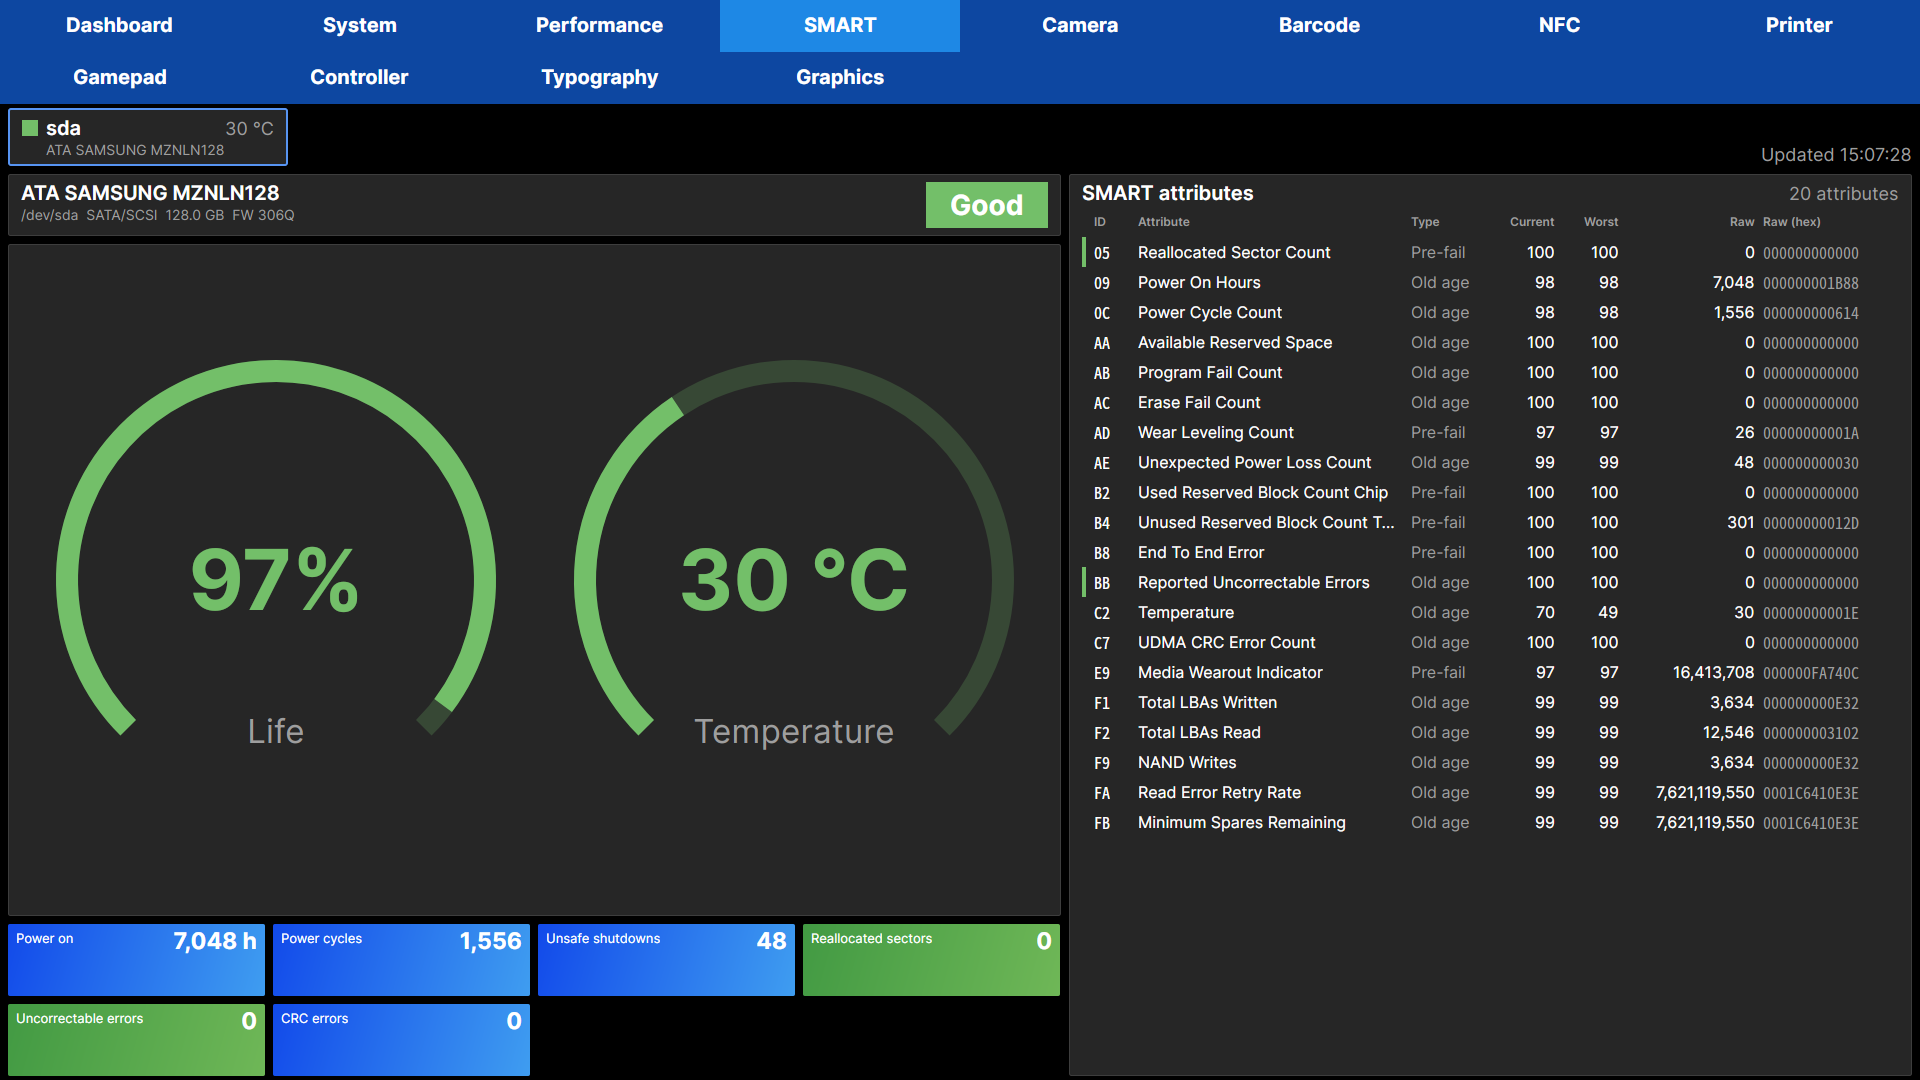
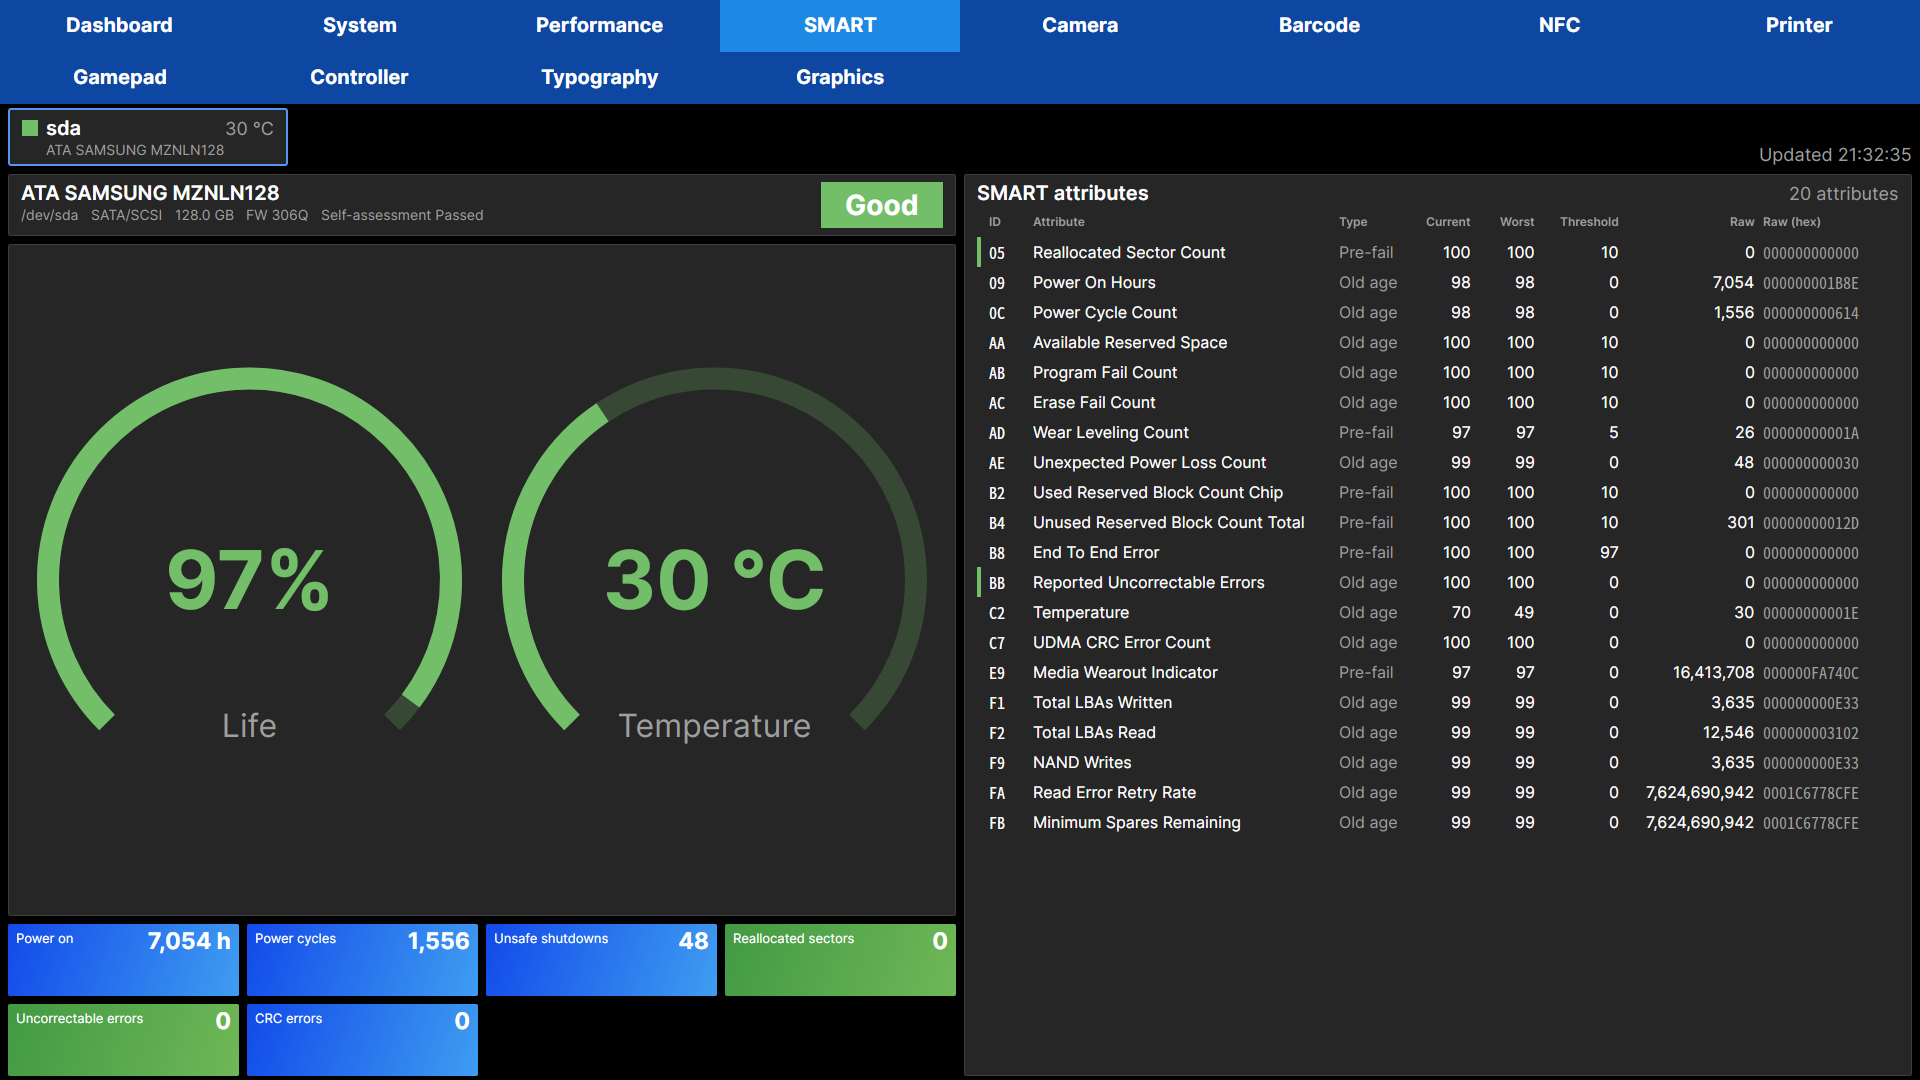
Update

diff --git a/src/Template.LinuxApp/Domain/Logic/SmartLogic.cs b/src/Template.LinuxApp/Domain/Logic/SmartLogic.cs
@@ -27,6 +27,8 @@ public enum SmartValueUnit
 
 public enum SmartIssueType
 {
+    AssessmentFailed,
+    AttributeFailing,
     CriticalWarning,
     SpareBelowThreshold,
     MediaErrors,
@@ -39,7 +41,7 @@ public enum SmartIssueType
     ReallocationEvents
 }
 
-public sealed record SmartIssue(SmartHealth Health, SmartIssueType Type, ulong Value, ulong Limit);
+public sealed record SmartIssue(SmartHealth Health, SmartIssueType Type, ulong Value, ulong Limit, byte Id = 0);
 
 public static class SmartLogic
 {
@@ -182,6 +184,9 @@ public static class SmartLogic
     public static bool IsPreFailure(SmartAttribute attribute) =>
         (attribute.Flags & PreFailureFlag) != 0;
 
+    public static bool IsFailing(SmartAttribute attribute) =>
+        (attribute.Threshold > 0) && (attribute.CurrentValue <= attribute.Threshold);
+
     public static bool IsTemperature(byte id) =>
         id is (byte)SmartId.Temperature or AirflowTemperature;
 
@@ -231,9 +236,19 @@ public static class SmartLogic
             ? attribute.RawValue
             : Double.NaN;
 
-    public static IReadOnlyList<SmartIssue> EvaluateAta(IReadOnlyList<SmartAttribute> attributes)
+    public static IReadOnlyList<SmartIssue> EvaluateAta(IReadOnlyList<SmartAttribute> attributes, SmartAssessment assessment)
     {
         var issues = new List<SmartIssue>();
+        if (assessment == SmartAssessment.Failed)
+        {
+            issues.Add(new SmartIssue(SmartHealth.Critical, SmartIssueType.AssessmentFailed, 0, 0));
+        }
+
+        foreach (var attribute in attributes.Where(IsFailing))
+        {
+            issues.Add(new SmartIssue(GetThresholdHealth(attribute), SmartIssueType.AttributeFailing, attribute.CurrentValue, attribute.Threshold, attribute.Id));
+        }
+
         AddIssue(issues, attributes, SmartId.UncorrectableSectorCount, SmartIssueType.UncorrectableSectors);
         AddIssue(issues, attributes, SmartId.ReportedUncorrectableErrors, SmartIssueType.ReportedUncorrectableErrors);
         AddIssue(issues, attributes, SmartId.ReallocatedSectorCount, SmartIssueType.ReallocatedSectors);
@@ -276,13 +291,17 @@ public static class SmartLogic
     public static SmartHealth GetHealth(IEnumerable<SmartIssue> issues) =>
         issues.Select(static x => x.Health).DefaultIfEmpty(SmartHealth.Good).Max();
 
-    public static SmartHealth GetAttributeHealth(SmartAttribute attribute) =>
-        (SmartId)attribute.Id switch
+    public static SmartHealth GetAttributeHealth(SmartAttribute attribute)
+    {
+        var health = (SmartId)attribute.Id switch
         {
             SmartId.UncorrectableSectorCount or SmartId.ReportedUncorrectableErrors => attribute.RawValue > 0 ? SmartHealth.Critical : SmartHealth.Good,
             SmartId.ReallocatedSectorCount or SmartId.CurrentPendingSectorCount or SmartId.ReallocationEventCount => attribute.RawValue > 0 ? SmartHealth.Warning : SmartHealth.Good,
             _ => SmartHealth.Unknown
         };
+        var threshold = GetThresholdHealth(attribute);
+        return threshold > health ? threshold : health;
+    }
 
     public static SmartHealth GetTemperatureHealth(double celsius) =>
         !Double.IsFinite(celsius)
@@ -296,6 +315,11 @@ public static class SmartLogic
 
     public static SmartHealth GetSpareHealth(byte spare, byte threshold) =>
         spare < threshold ? SmartHealth.Critical : SmartHealth.Good;
+
+    private static SmartHealth GetThresholdHealth(SmartAttribute attribute) =>
+        !IsFailing(attribute)
+            ? SmartHealth.Unknown
+            : IsPreFailure(attribute) ? SmartHealth.Critical : SmartHealth.Warning;
 
     private static void AddIssue(List<SmartIssue> issues, IEnumerable<SmartAttribute> attributes, SmartId id, SmartIssueType type)
     {

diff --git a/src/Template.LinuxApp/Views/Example/SmartViewModel.cs b/src/Template.LinuxApp/Views/Example/SmartViewModel.cs
@@ -9,7 +9,7 @@ using Template.LinuxApp.Services;
 
 public sealed record SmartStatItem(string Title, double Value, SmartValueUnit Unit, SmartHealth Health);
 
-public sealed record SmartAttributeItem(byte Id, bool IsPreFailure, byte Current, byte Worst, ulong Raw, SmartHealth Health);
+public sealed record SmartAttributeItem(byte Id, bool IsPreFailure, byte Current, byte Worst, byte Threshold, ulong Raw, SmartHealth Health);
 
 public sealed record SmartValueItem(string Name, double Value, SmartValueUnit Unit, double Detail, SmartValueUnit DetailUnit, SmartHealth Health);
 
@@ -32,6 +32,8 @@ public sealed record SmartDiskItem
     public required bool Removable { get; init; }
 
     public required SmartState Smart { get; init; }
+
+    public SmartAssessment Assessment { get; init; }
 
     public bool IsNvme { get; init; }
 
@@ -64,6 +66,8 @@ public sealed record SmartDiskItem
     public bool IsAta => HasSmart && !IsNvme;
 
     public bool HasIssues => Issues.Count > 0;
+
+    public bool HasAssessment => Assessment != SmartAssessment.Unknown;
 }
 
 // ReSharper disable once ClassNeverInstantiated.Global
@@ -179,7 +183,7 @@ public sealed partial class SmartViewModel : AppViewModelBase
             return item;
         }
 
-        return disk.Nvme is { } nvme ? CreateNvme(item, nvme) : CreateAta(item, disk.Attributes);
+        return disk.Nvme is { } nvme ? CreateNvme(item, nvme) : CreateAta(item, disk.Attributes, disk.Assessment);
     }
 
     private static SmartDiskItem CreateNvme(SmartDiskItem item, NvmeHealth nvme)
@@ -243,9 +247,9 @@ public sealed partial class SmartViewModel : AppViewModelBase
         };
     }
 
-    private static SmartDiskItem CreateAta(SmartDiskItem item, IReadOnlyList<SmartAttribute> attributes)
+    private static SmartDiskItem CreateAta(SmartDiskItem item, IReadOnlyList<SmartAttribute> attributes, SmartAssessment assessment)
     {
-        var issues = SmartLogic.EvaluateAta(attributes);
+        var issues = SmartLogic.EvaluateAta(attributes, assessment);
         var temperature = SmartLogic.GetTemperature(attributes);
         var life = SmartLogic.GetLife(attributes);
 
@@ -263,6 +267,7 @@ public sealed partial class SmartViewModel : AppViewModelBase
 
         return item with
         {
+            Assessment = assessment,
             Health = SmartLogic.GetHealth(issues),
             Issues = issues,
             Temperature = Double.IsFinite(temperature) ? temperature : null,
@@ -270,7 +275,7 @@ public sealed partial class SmartViewModel : AppViewModelBase
             Life = Double.IsFinite(life) ? life : null,
             LifeHealth = SmartLogic.GetLifeHealth(life),
             Stats = [.. stats.Take(MaxStats)],
-            Attributes = [.. attributes.Select(static x => new SmartAttributeItem(x.Id, SmartLogic.IsPreFailure(x), x.CurrentValue, x.WorstValue, x.RawValue, SmartLogic.GetAttributeHealth(x)))]
+            Attributes = [.. attributes.Select(static x => new SmartAttributeItem(x.Id, SmartLogic.IsPreFailure(x), x.CurrentValue, x.WorstValue, x.Threshold, x.RawValue, SmartLogic.GetAttributeHealth(x)))]
         };
     }
 

diff --git a/src/Template.LinuxApp/Shell/ScreenCapture.cs b/src/Template.LinuxApp/Shell/ScreenCapture.cs
@@ -1,14 +1,22 @@
 namespace Template.LinuxApp.Shell;
 
+using System.Runtime.Versioning;
+
 using Avalonia;
 using Avalonia.Controls;
 using Avalonia.Media;
 using Avalonia.Media.Imaging;
+using Avalonia.Platform;
+
+using NAudio.Wave;
+using NAudio.Wave.Alsa;
 
 using Template.LinuxApp.Settings;
 
 public sealed class ScreenCapture
 {
+    private static readonly Uri ShutterSoundUri = new("avares://Template.LinuxApp/Assets/Sounds/Shutter.wav");
+
     private readonly ILogger<ScreenCapture> log;
 
     private readonly TimeProvider timeProvider;
@@ -16,6 +24,8 @@ public sealed class ScreenCapture
     private readonly INavigator navigator;
 
     private readonly CaptureSetting setting;
+
+    private byte[]? shutterSound;
 
     public ScreenCapture(ILogger<ScreenCapture> log, TimeProvider timeProvider, INavigator navigator, CaptureSetting setting)
     {
@@ -32,6 +42,7 @@ public sealed class ScreenCapture
             return null;
         }
 
+        PlayShutterSound();
         var name = String.Create(CultureInfo.InvariantCulture, $"{timeProvider.GetLocalNow():yyyyMMdd-HHmmss-fff}_{navigator.CurrentViewId}.png");
         var path = Path.GetFullPath(Path.Combine(setting.Directory, name));
         try
@@ -47,6 +58,51 @@ public sealed class ScreenCapture
             log.WarnScreenCaptureFailed(ex, path);
             return null;
         }
+    }
+
+    private void PlayShutterSound()
+    {
+        if (!OperatingSystem.IsLinux())
+        {
+            return;
+        }
+
+        var data = shutterSound ??= LoadShutterSound();
+        _ = PlayShutterSoundAsync(data);
+    }
+
+    [SupportedOSPlatform("linux")]
+    private async Task PlayShutterSoundAsync(byte[] data)
+    {
+        await Task.CompletedTask.ConfigureAwait(ConfigureAwaitOptions.ForceYielding);
+        try
+        {
+            var reader = new WaveFileReader(new MemoryStream(data, false));
+            await using (reader.ConfigureAwait(false))
+            {
+                using var output = new AlsaOut();
+                var stopped = new TaskCompletionSource<Exception?>(TaskCreationOptions.RunContinuationsAsynchronously);
+                output.PlaybackStopped += (_, e) => stopped.TrySetResult(e.Exception);
+                output.Init(reader);
+                output.Play();
+                if (await stopped.Task.ConfigureAwait(false) is { } error)
+                {
+                    log.WarnShutterSoundFailed(error);
+                }
+            }
+        }
+        catch (Exception ex) when (ex is AlsaException or NotSupportedException or DllNotFoundException)
+        {
+            log.WarnShutterSoundFailed(ex);
+        }
+    }
+
+    private static byte[] LoadShutterSound()
+    {
+        using var stream = AssetLoader.Open(ShutterSoundUri);
+        using var memory = new MemoryStream();
+        stream.CopyTo(memory);
+        return memory.ToArray();
     }
 
     private static byte[] Render(TopLevel target)

diff --git a/src/Template.LinuxApp/Services/DiskService.cs b/src/Template.LinuxApp/Services/DiskService.cs
@@ -38,11 +38,16 @@ public sealed record DiskSnapshot(
     ulong Size,
     bool Removable,
     SmartState Smart,
+    SmartAssessment Assessment,
     NvmeHealth? Nvme,
     IReadOnlyList<SmartAttribute> Attributes);
 
 public sealed class DiskService : IDisposable
 {
+    private const int OperationNotPermitted = 1;
+
+    private const int PermissionDenied = 13;
+
     private readonly Lock sync = new();
 
     private readonly ILogger<DiskService> log;
@@ -138,7 +143,7 @@ public sealed class DiskService : IDisposable
                 nvme.WarningCompositeTemperatureTime,
                 nvme.CriticalCompositeTemperatureTime,
                 [.. nvme.TemperatureSensors]);
-            return Create(disk, SmartState.Available, health, []);
+            return Create(disk, SmartState.Available, SmartAssessment.Unknown, health, []);
         }
 
         if ((disk.SmartType == SmartType.Generic) && (disk.Smart is ISmartGeneric generic) && generic.Update())
@@ -152,15 +157,15 @@ public sealed class DiskService : IDisposable
                 }
             }
 
-            return Create(disk, SmartState.Available, null, attributes);
+            return Create(disk, SmartState.Available, generic.Assessment, null, attributes);
         }
 
-        var state = (disk.DiskType is DiskType.Nvme or DiskType.Scsi or DiskType.Ide) && !Environment.IsPrivilegedProcess
+        var state = disk.Smart.LastError is OperationNotPermitted or PermissionDenied
             ? SmartState.RequiresPermission
             : SmartState.Unsupported;
-        return Create(disk, state, null, []);
+        return Create(disk, state, SmartAssessment.Unknown, null, []);
     }
 
-    private static DiskSnapshot Create(IDiskInfo disk, SmartState state, NvmeHealth? nvme, IReadOnlyList<SmartAttribute> attributes) =>
-        new(disk.DeviceName, disk.Model, disk.SerialNumber, disk.FirmwareRevision, disk.DiskType, disk.Size, disk.Removable, state, nvme, attributes);
+    private static DiskSnapshot Create(IDiskInfo disk, SmartState state, SmartAssessment assessment, NvmeHealth? nvme, IReadOnlyList<SmartAttribute> attributes) =>
+        new(disk.DeviceName, disk.Model, disk.SerialNumber, disk.FirmwareRevision, disk.DiskType, disk.Size, disk.Removable, state, assessment, nvme, attributes);
 }

diff --git a/src/Template.LinuxApp/Log.cs b/src/Template.LinuxApp/Log.cs
@@ -73,7 +73,7 @@ internal static partial class Log
     [LoggerMessage(Level = LogLevel.Debug, Message = "Suica session reset. attempt=[{attempt}]")]
     public static partial void DebugSuicaSessionReset(this ILogger logger, int attempt);
 
-    // Platform
+    // Service
 
     [LoggerMessage(Level = LogLevel.Warning, Message = "Performance sample failed.")]
     public static partial void WarnPerformanceSampleFailed(this ILogger logger, Exception ex);
@@ -88,6 +88,9 @@ internal static partial class Log
 
     [LoggerMessage(Level = LogLevel.Warning, Message = "Screen capture failed. path=[{path}]")]
     public static partial void WarnScreenCaptureFailed(this ILogger logger, Exception ex, string path);
+
+    [LoggerMessage(Level = LogLevel.Warning, Message = "Shutter sound failed.")]
+    public static partial void WarnShutterSoundFailed(this ILogger logger, Exception ex);
 
     // Error
 

diff --git a/src/Template.LinuxApp/Converters/SmartIssueConverter.cs b/src/Template.LinuxApp/Converters/SmartIssueConverter.cs
@@ -11,6 +11,8 @@ public sealed class SmartIssueConverter : IValueConverter
             ? String.Empty
             : issue.Type switch
             {
+                SmartIssueType.AssessmentFailed => "SMART self-assessment failed",
+                SmartIssueType.AttributeFailing => String.Create(CultureInfo.InvariantCulture, $"{SmartLogic.GetAttributeName(issue.Id)} ({issue.Id:X2}): {issue.Value} is at or below threshold {issue.Limit}"),
                 SmartIssueType.CriticalWarning => $"Critical warning: {SmartValueConverter.FormatCriticalWarning((byte)issue.Value)}",
                 SmartIssueType.SpareBelowThreshold => String.Create(CultureInfo.InvariantCulture, $"Available spare {issue.Value}% is below {issue.Limit}%"),
                 SmartIssueType.MediaErrors => String.Create(CultureInfo.InvariantCulture, $"Media errors: {issue.Value:N0}"),

diff --git a/README.md b/README.md
@@ -22,7 +22,7 @@ Linux の x64 機のキオスク端末向けの Avalonia アプリの雛形。
 <img width="50%" src="./docs/smart.png" />
 
 - ディスクごとの SMART の判定・寿命・温度・主な値
-- 属性の生の値の一覧
+- 属性の現在値・最悪値・しきい値・生の値の一覧
 
 <img width="50%" src="./docs/camera.png" />
 
